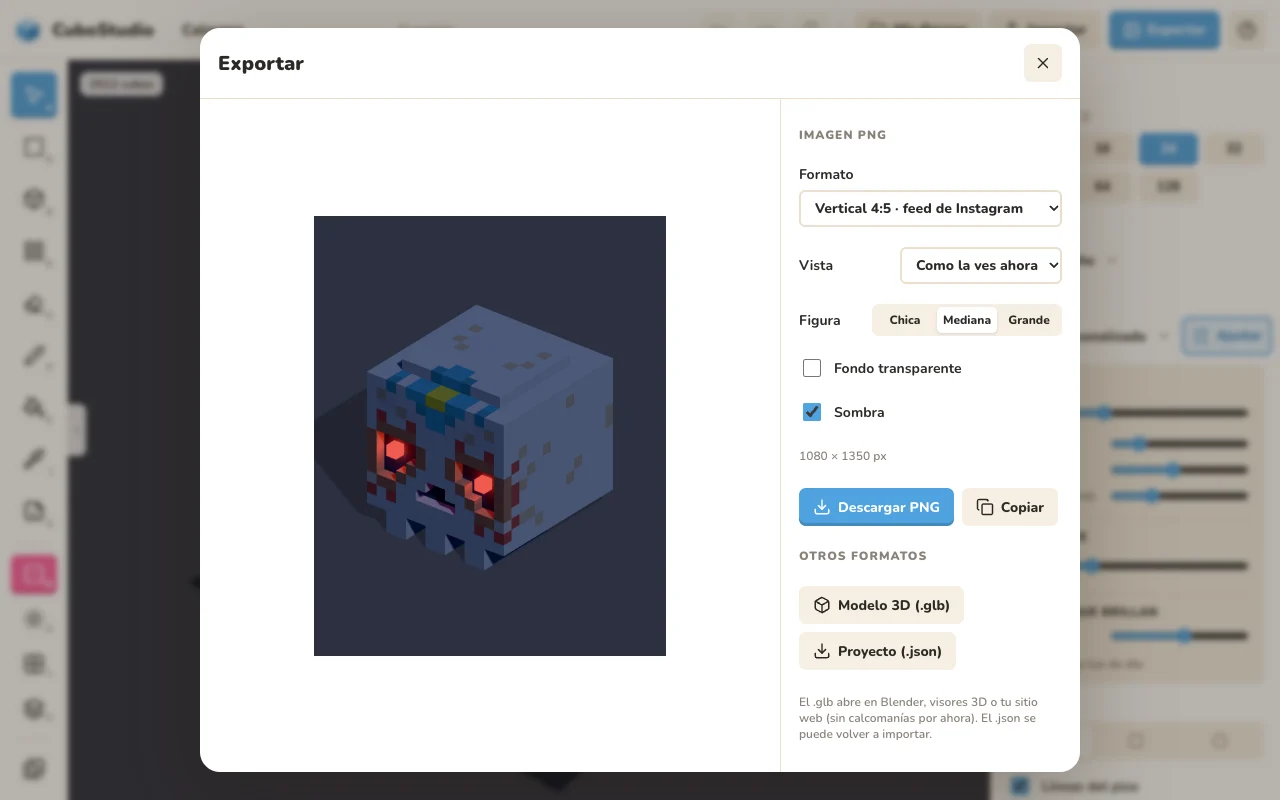
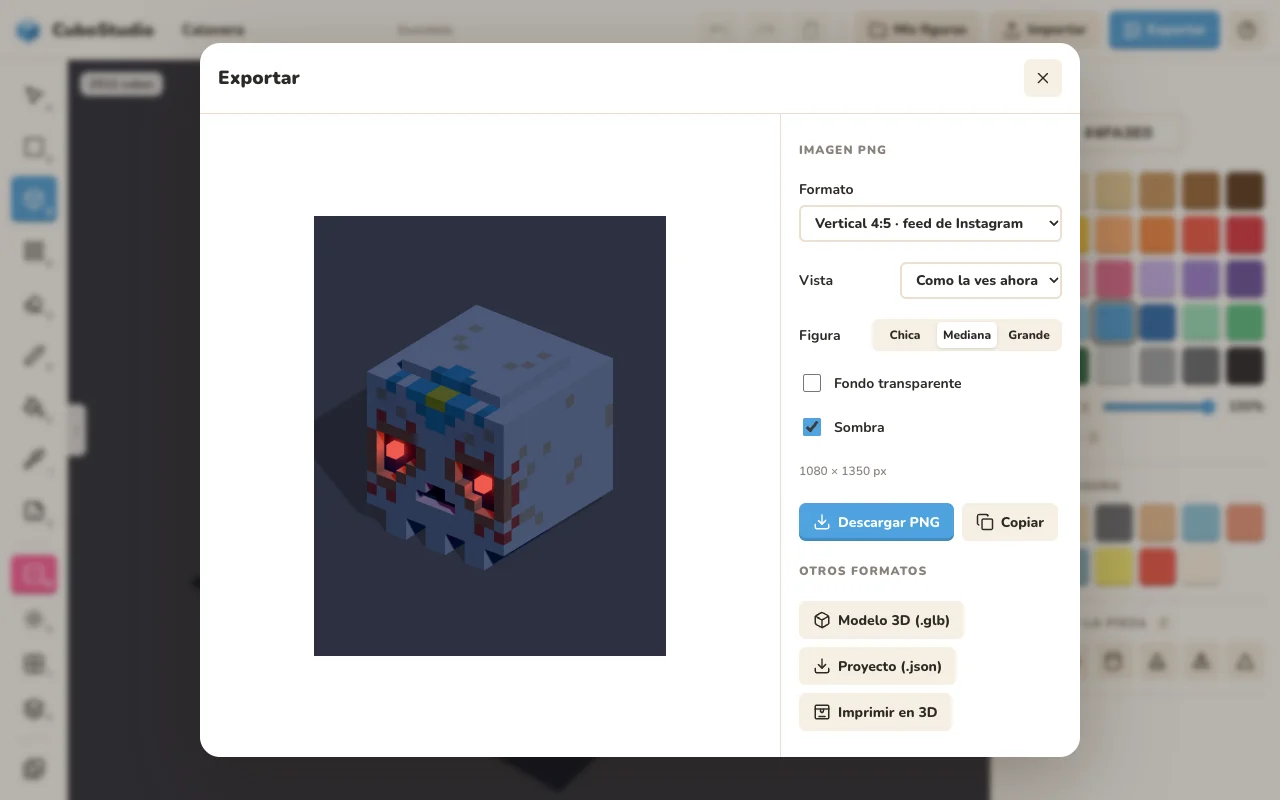
docs: document 3D print export and fix README links
- Guide: export card and FAQ cover STL/3MF; refreshed export capture
- README: 3D print export notes and app/guide links as a list

diff --git a/public/guia/index.html b/public/guia/index.html
@@ -155,6 +155,7 @@
     }
     main a[href^="#"]::before { content: '↪'; font-size: .85em; opacity: .75; }
     main a[href^="#"]:hover { background: var(--accent); color: #fff; }
+    .badge-exp { display: inline-block; padding: 0 7px; border-radius: 999px; background: #fff1cc; color: #8a5a00; font-size: 11px; font-weight: 900; text-transform: uppercase; vertical-align: 1px; }
     h3.group { margin: 30px 0 4px; font-size: 13px; text-transform: uppercase; letter-spacing: 0.06em; color: var(--muted); }
     @media (max-width: 900px) {
       .feat { padding: 14px; }
@@ -315,7 +316,7 @@
         <h2><span class="n">10</span>Tus figuras y exportar</h2>
         <p class="sub">Tu galería, y cómo sacar tus figuras como imagen, modelo 3D o proyecto.</p>
         <article class="feat" id="mis-figuras"><header class="feat-head"><svg class="ico" viewBox="0 0 24 24" fill="none" stroke="currentColor" stroke-width="2" stroke-linecap="round" stroke-linejoin="round" aria-hidden="true"><path d="M20 20a2 2 0 0 0 2-2V8a2 2 0 0 0-2-2h-7.9a2 2 0 0 1-1.69-.9L9.6 3.9A2 2 0 0 0 7.93 3H4a2 2 0 0 0-2 2v13a2 2 0 0 0 2 2Z"/></svg><h3>Mis figuras</h3><span class="feat-keys"><kbd>G</kbd></span></header><div class="feat-body has-media"><div class="feat-text"><dl class="feat-rows"><div><dt>Dónde</dt><dd>Botón <b>Mis figuras</b>, arriba a la derecha.</dd></div><div><dt>Cómo</dt><dd>Haz clic en una figura para abrirla. <b>Nueva vacía</b> empieza desde cero.</dd></div><div><dt>Detalles</dt><dd><ul><li>Todas tus figuras con su miniatura, su luz y su fondo. Se guardan solas.</li><li>Duplica o elimina desde cada tarjeta.</li><li>La pestaña <b>Ejemplos</b> tiene figuras listas: al abrir una se crea una copia para ti.</li></ul></dd></div></dl></div><figure class="shot"><img src="img/galeria.webp" alt="Galería de figuras guardadas" loading="lazy" /></figure></div></article>
-        <article class="feat" id="exportar"><header class="feat-head"><svg class="ico" viewBox="0 0 24 24" fill="none" stroke="currentColor" stroke-width="2" stroke-linecap="round" stroke-linejoin="round" aria-hidden="true"><rect x="3" y="3" width="18" height="18" rx="2"/><circle cx="9" cy="9" r="2"/><path d="m21 15-3.1-3.1a2 2 0 0 0-2.8 0L6 21"/></svg><h3>Exportar</h3><span class="feat-keys"><kbd>Ctrl</kbd> + <kbd>E</kbd></span></header><div class="feat-body has-media"><div class="feat-text"><dl class="feat-rows"><div><dt>Dónde</dt><dd>Botón <b>Exportar</b>, arriba a la derecha.</dd></div><div><dt>Cómo</dt><dd>Elige el formato, mira la vista previa y descarga.</dd></div><div><dt>Detalles</dt><dd><ul><li>En los formatos de redes eliges el tamaño de la figura (chica, mediana o grande).</li><li><b>Modelo 3D (.glb):</b> para Blender, visores 3D o tu sitio web. Lleva la luz y los colores.</li><li><b>Proyecto (.json):</b> la figura completa, para volver a importarla con <b>Importar</b> o arrastrándola a la ventana.</li></ul></dd></div></dl></div><figure class="shot"><img src="img/exportar.webp" alt="Ventana de exportar con vista previa en formato vertical" loading="lazy" /></figure></div><div class="feat-extra"><table><tr><th>Formato</th><th>Tamaño</th><th>Para</th></tr><tr><td>Ajustado a la figura</td><td>512 – 2048 px</td><td>Stickers y PNG sin fondo.</td></tr><tr><td>Tal como se ve en pantalla</td><td>512 – 2048 px</td><td>Una captura con tu encuadre.</td></tr><tr><td>Cuadrado 1:1</td><td>1080 × 1080</td><td>Post de Instagram, foto de perfil.</td></tr><tr><td>Vertical 4:5</td><td>1080 × 1350</td><td>Feed de Instagram.</td></tr><tr><td>Historia 9:16</td><td>1080 × 1920</td><td>Historias, Reels, TikTok, WhatsApp.</td></tr><tr><td>Fondo de iPhone</td><td>1179 × 2556</td><td>Fondo de pantalla (la figura baja para no tapar el reloj).</td></tr><tr><td>Clásico 4:3 / 3:4</td><td>1600 × 1200</td><td>Fotos y presentaciones.</td></tr><tr><td>Horizontal 16:9</td><td>1920 × 1080</td><td>YouTube, fondo de compu.</td></tr></table><figure class="shot plain"><img src="img/formatos.webp" alt="La calavera en cuadrado, vertical, historia y horizontal" loading="lazy" /></figure></div></article>
+        <article class="feat" id="exportar"><header class="feat-head"><svg class="ico" viewBox="0 0 24 24" fill="none" stroke="currentColor" stroke-width="2" stroke-linecap="round" stroke-linejoin="round" aria-hidden="true"><rect x="3" y="3" width="18" height="18" rx="2"/><circle cx="9" cy="9" r="2"/><path d="m21 15-3.1-3.1a2 2 0 0 0-2.8 0L6 21"/></svg><h3>Exportar</h3><span class="feat-keys"><kbd>Ctrl</kbd> + <kbd>E</kbd></span></header><div class="feat-body has-media"><div class="feat-text"><dl class="feat-rows"><div><dt>Dónde</dt><dd>Botón <b>Exportar</b>, arriba a la derecha.</dd></div><div><dt>Cómo</dt><dd>Elige el formato, mira la vista previa y descarga.</dd></div><div><dt>Detalles</dt><dd><ul><li>En los formatos de redes eliges el tamaño de la figura (chica, mediana o grande).</li><li><b>Modelo 3D (.glb):</b> para Blender, visores 3D o tu sitio web. Lleva la luz y los colores.</li><li><b>Proyecto (.json):</b> la figura completa, para volver a importarla con <b>Importar</b> o arrastrándola a la ventana.</li><li><b>Imprimir en 3D</b> <span class="badge-exp">Experimental</span>: <b>un color (.stl)</b> o <b>a color (.3mf)</b>, en milímetros. Eliges el tamaño de cada cubo (2, 5 o 10 mm) y, a color, el máximo de colores (todos, 8 o 4) según los filamentos de tu impresora. Ves la medida final, la muestra de colores y los avisos, y confirmas antes de descargar.</li></ul></dd></div></dl></div><figure class="shot"><img src="img/exportar.webp" alt="Ventana de exportar con vista previa en formato vertical" loading="lazy" /></figure></div><div class="feat-extra"><table><tr><th>Formato</th><th>Tamaño</th><th>Para</th></tr><tr><td>Ajustado a la figura</td><td>512 – 2048 px</td><td>Stickers y PNG sin fondo.</td></tr><tr><td>Tal como se ve en pantalla</td><td>512 – 2048 px</td><td>Una captura con tu encuadre.</td></tr><tr><td>Cuadrado 1:1</td><td>1080 × 1080</td><td>Post de Instagram, foto de perfil.</td></tr><tr><td>Vertical 4:5</td><td>1080 × 1350</td><td>Feed de Instagram.</td></tr><tr><td>Historia 9:16</td><td>1080 × 1920</td><td>Historias, Reels, TikTok, WhatsApp.</td></tr><tr><td>Fondo de iPhone</td><td>1179 × 2556</td><td>Fondo de pantalla (la figura baja para no tapar el reloj).</td></tr><tr><td>Clásico 4:3 / 3:4</td><td>1600 × 1200</td><td>Fotos y presentaciones.</td></tr><tr><td>Horizontal 16:9</td><td>1920 × 1080</td><td>YouTube, fondo de compu.</td></tr></table><figure class="shot plain"><img src="img/formatos.webp" alt="La calavera en cuadrado, vertical, historia y horizontal" loading="lazy" /></figure></div></article>
       </section>
 
       <!-- 11 -->
@@ -329,7 +330,7 @@
         <details class="faq"><summary>La cuadrícula no me deja hacerla más chica.</summary><p>La figura tiene que caber en el tamaño nuevo. Mueve la figura con las flechas del teclado o quita lo que sobra, y vuelve a intentarlo.</p></details>
         <details class="faq"><summary>¿Cómo hago un personaje simétrico rápido?</summary><p>Activa <b>Espejo</b> <kbd>M</kbd> antes de empezar: todo lo que construyas se repite del otro lado, y al editar una pieza su pareja cambia con ella.</p></details>
         <details class="faq"><summary>¿Cómo consigo una imagen bonita para redes?</summary><p>Elige un ambiente de luz (Atardecer o Noche lucen mucho), mueve el sol <kbd>U</kbd> hasta que te gusten las sombras, y en Exportar elige <b>Vertical 4:5</b> o <b>Historia 9:16</b> con la figura en tamaño Grande.</p></details>
-        <details class="faq"><summary>¿Se puede imprimir en 3D?</summary><p>Por ahora puedes exportar el <b>Modelo 3D (.glb)</b> y convertirlo en tu programa de impresión. La exportación directa a STL/3MF está en la lista de ideas.</p></details>
+        <details class="faq"><summary>¿Se puede imprimir en 3D?</summary><p>Sí, de forma <b>experimental</b>: en Exportar, <b>Imprimir en 3D</b> descarga un <b>.stl</b> de un solo color o un <b>.3mf</b> a color (una parte por color), listos para Cura, PrusaSlicer o Bambu Studio. Aún no está probado en todas las impresoras, así que revisa el modelo antes de imprimir.</p></details>
       </section>
     </main>
   </div>

diff --git a/README.md b/README.md
@@ -3,7 +3,8 @@
 Editor de figuras hechas de cubos (vóxeles) al estilo *Pokémon Quest* y *Crossy Road*, hecho con
 Three.js + Vite, sin frameworks. Todo corre en el navegador y se guarda solo.
 
-**Pruébalo:** https://mauriciogc.github.io/cuboStudio/ · **Guía completa con imágenes:** https://mauriciogc.github.io/cuboStudio/guia/
+- **Pruébalo:** [mauriciogc.github.io/cuboStudio](https://mauriciogc.github.io/cuboStudio/)
+- **Guía completa con imágenes:** [mauriciogc.github.io/cuboStudio/guia](https://mauriciogc.github.io/cuboStudio/guia/)
 
 ```bash
 npm install
@@ -147,6 +148,11 @@ Sale cuando no estás creando ni editando piezas (es lo de toda la figura).
   - Fondo transparente o de color, sombra opcional, de 512 a 2048 px; también copiar al portapapeles.
   - Modelo 3D `.glb`.
   - Proyecto `.json`.
+  - **Imprimir en 3D (experimental):** `.stl` de un solo color o `.3mf` a color (una parte cerrada por color,
+    juntas como una sola figura), en milímetros (cubo de 2, 5 o 10 mm), de pie sobre la cama. A color se
+    puede limitar a 8 o 4 colores según los filamentos: se eligen los que más espacio ocupan y más se
+    distinguen. Antes de descargar muestra la medida, la muestra de colores y los avisos (partes que
+    flotan, calcomanías que no salen, soportes) y pide confirmar que se entiende que no está garantizado.
 - **Importar:** un `.json` con el botón o arrastrándolo a la ventana.
 - **Deshacer / rehacer:** Ctrl+Z y Ctrl+Shift+Z (300 pasos). **Ctrl+S** guarda al momento.
 
@@ -220,7 +226,7 @@ Cada ejemplo se descarga sólo cuando hace falta.
 | `src/sun-gizmo.js` | Sol arrastrable para orientar la luz |
 | `src/deform-tool.js` | Deformar y Extruir caras de cubos y bloques (manijas e imanes) |
 | `src/stage.js` | Renderer, cámara, luces, piso, fondos y vistas |
-| `src/exporter.js` | PNG (pantalla o recortado), GLB y miniaturas |
+| `src/exporter.js` | PNG (pantalla o recortado), GLB, STL y 3MF para impresión 3D y miniaturas |
 | `src/stickers.js` | Calcomanías: diseños en canvas, texturas y colocación por cara |
 | `src/references.js` | Imágenes guía |
 | `src/workplane.js` | Plano del Espacio 3D |
